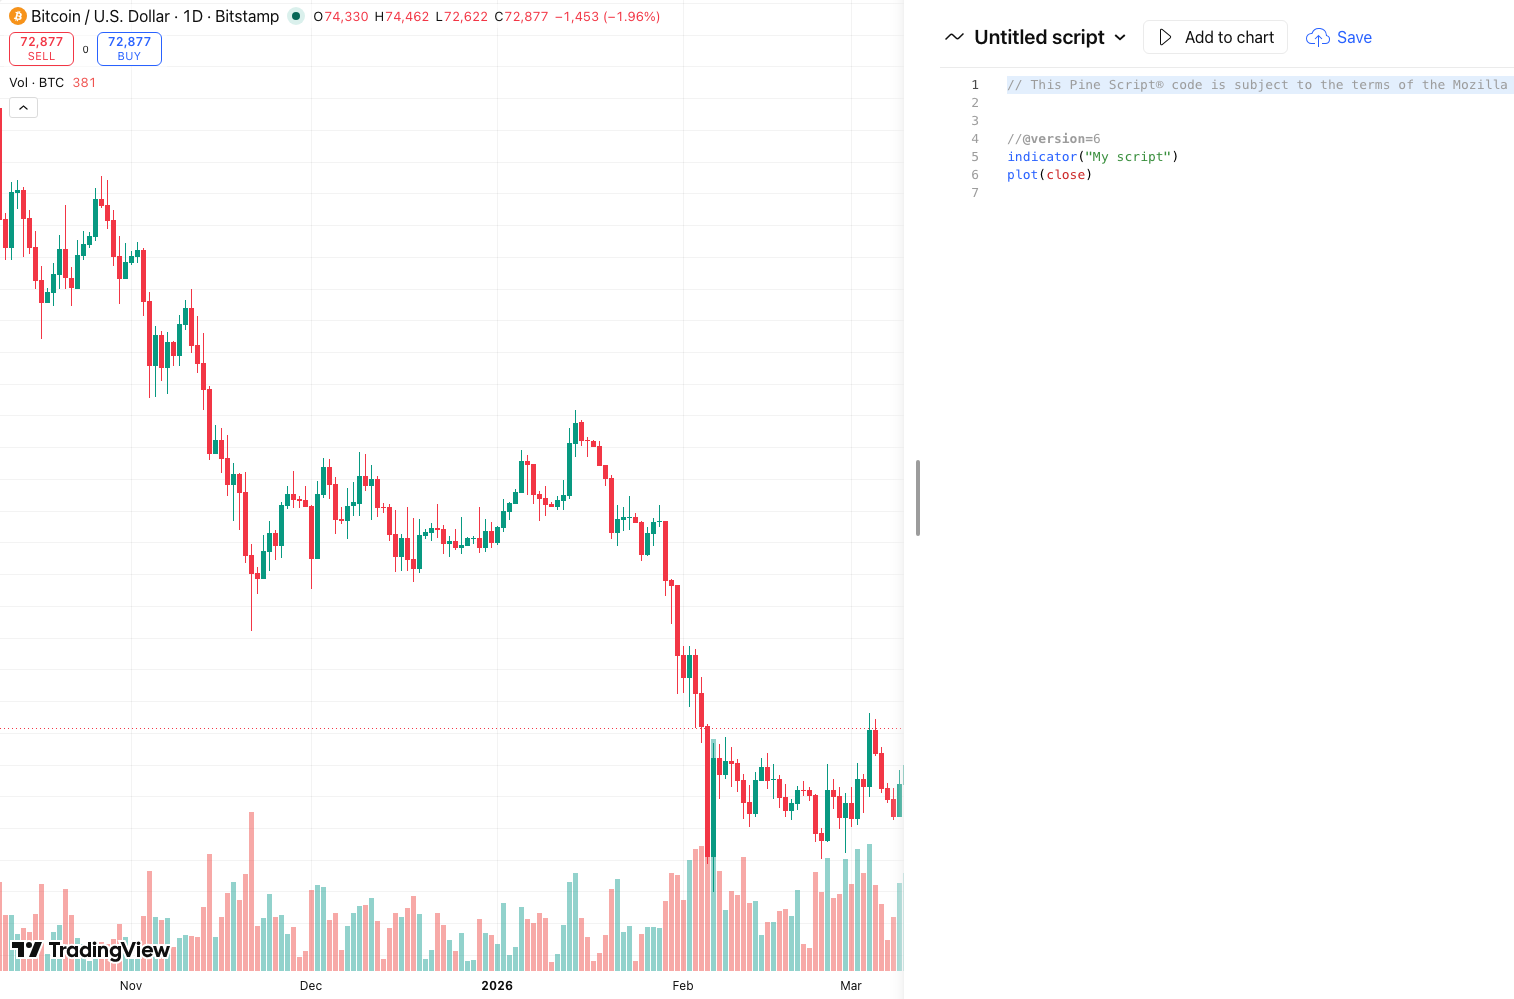
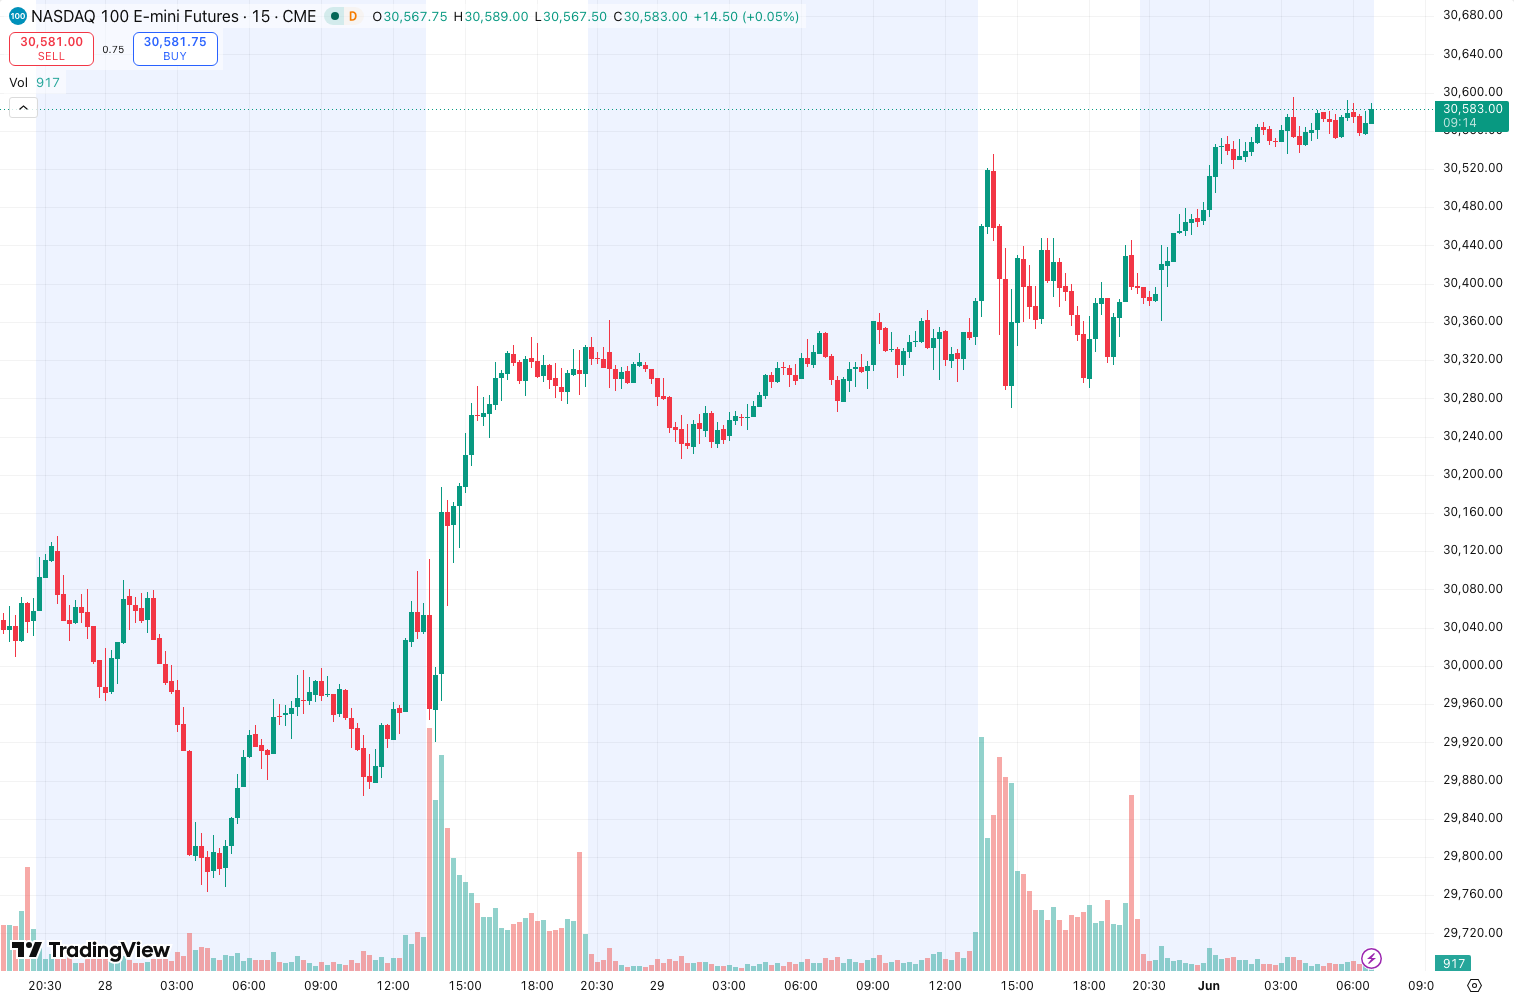
🔬 Add review: Market_Structure_Pro

diff --git a/content/reviews/market-structure-pro.md b/content/reviews/market-structure-pro.md
@@ -1,0 +1,112 @@
+---
+title: "Market_Structure_Pro Review: Settings, Strategy &amp; How to Use It"
+date: 2026-06-01
+draft: false
+type: reviews
+image: "/screenshots/market-structure-pro.png"
+tags:
+  - market structure pro
+  - trend
+  - tradingview
+  - indicator
+  - review
+  - trading
+categories:
+  - Trend
+  - Technical Analysis
+rating: 4
+description: "Market_Structure_Pro TradingView indicator review: settings, strategy, and how to use it for trend trading. Expert analysis with chart examples."
+---
+
+<script type="application/ld+json">
+{
+  "@context": "https://schema.org",
+  "@type": "SoftwareApplication",
+  "name": "Market_Structure_Pro",
+  "applicationCategory": "TradingView Indicator",
+  "operatingSystem": "TradingView",
+  "description": "Market_Structure_Pro TradingView indicator review: settings, strategy, and how to use it for trend trading. Expert analysis with chart examples.",
+  "aggregateRating": {
+    "@type": "AggregateRating",
+    "ratingValue": "4",
+    "bestRating": "5",
+    "ratingCount": "1"
+  }
+}
+</script>
+
+# Market_Structure_Pro Review
+
+The Market_Structure_Pro is a trend indicator for TradingView. It helps traders identify market conditions and potential entry points with clear visual signals. Used correctly alongside volume and price action analysis, this indicator has earned its place in many traders' toolkits.
+
+![Market_Structure_Pro TradingView indicator chart screenshot](/screenshots/market-structure-pro.png "Market_Structure_Pro indicator on TradingView")
+
+<!--more-->
+
+## Key Features
+
+- Identifies trend direction and strength with minimal lag
+- Automatically adapts to changing market conditions
+- Clear buy/sell signals with visual confirmation
+
+## Best Settings for Market_Structure_Pro
+
+| Trading Style | Recommended Setting |
+|-------------|-------------------|
+| Short-term | 10-20 period |
+| Medium-term | 20-50 period |
+| Long-term | 50-200 period |
+
+## How to Use Market_Structure_Pro
+
+1. Add to any chart — the indicator plots directly on price or in a separate pane
+1. Use crossovers or line slope changes as entry/exit signals
+1. Combine with volume analysis to confirm trend strength
+1. Use higher timeframes for trend direction, lower for entries
+
+## Pros & Cons
+
+### Pros
+    - Reduces noise compared to raw price action
+    - Clear visual signals — no complex interpretation needed
+    - Works as both a standalone tool and with other indicators
+
+### Cons
+    - All trend indicators have some inherent lag behind price
+    - Whipsaws in ranging markets — needs a volatility filter
+    - Parameter selection significantly affects signal quality
+
+## Who Is This For?
+
+- Trend followers who want automated trend detection
+- Swing traders who enter on pullbacks in established trends
+- Position traders who hold for weeks and need trend confirmation
+
+## Alternatives
+
+- Moving Average: simpler but slower
+- SuperTrend: ATR-based, adaptive
+- ADX: measures strength, not direction
+- Parabolic SAR: stops and reversals
+
+## Frequently Asked Questions
+
+### How do I know which period to use?
+
+Shorter periods (10-20) react faster but produce more false signals. Longer periods (50-200) are slower but more reliable. Match the period to your trading timeframe — 20 for day trading, 50 for swing, 200 for position.
+
+### Does it repaint?
+
+No — all signals are based on closed bars. The indicator will never change a past signal when new bars form.
+
+### Best market for this indicator?
+
+Trend indicators work best in trending markets — stocks in bull runs, trending forex pairs, crypto in established moves. Avoid in sideways/choppy conditions or use with a range filter.
+
+## Final Verdict
+
+**Rating: ⭐⭐⭐⭐ (4/5)**
+
+Solid tool. Does what it claims and does it well.
+
+[View Market_Structure_Pro on TradingView →](https://www.tradingview.com/scripts/?search=market%20structure%20pro)